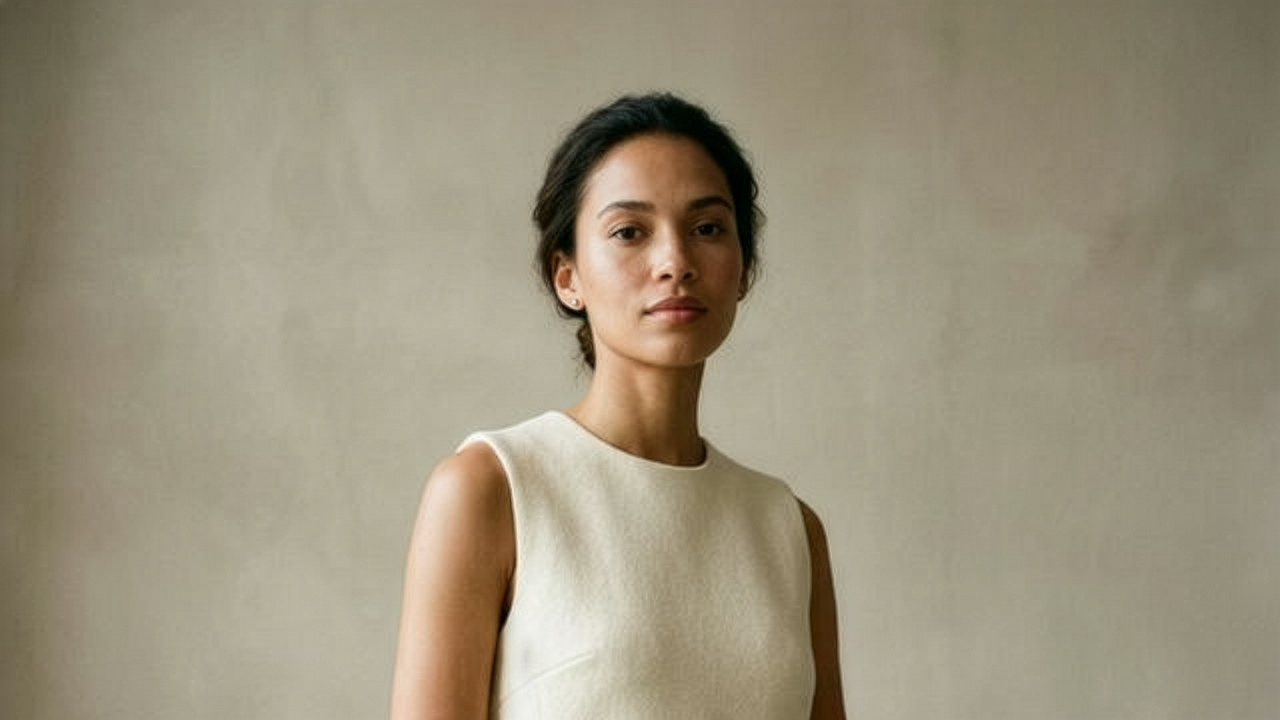
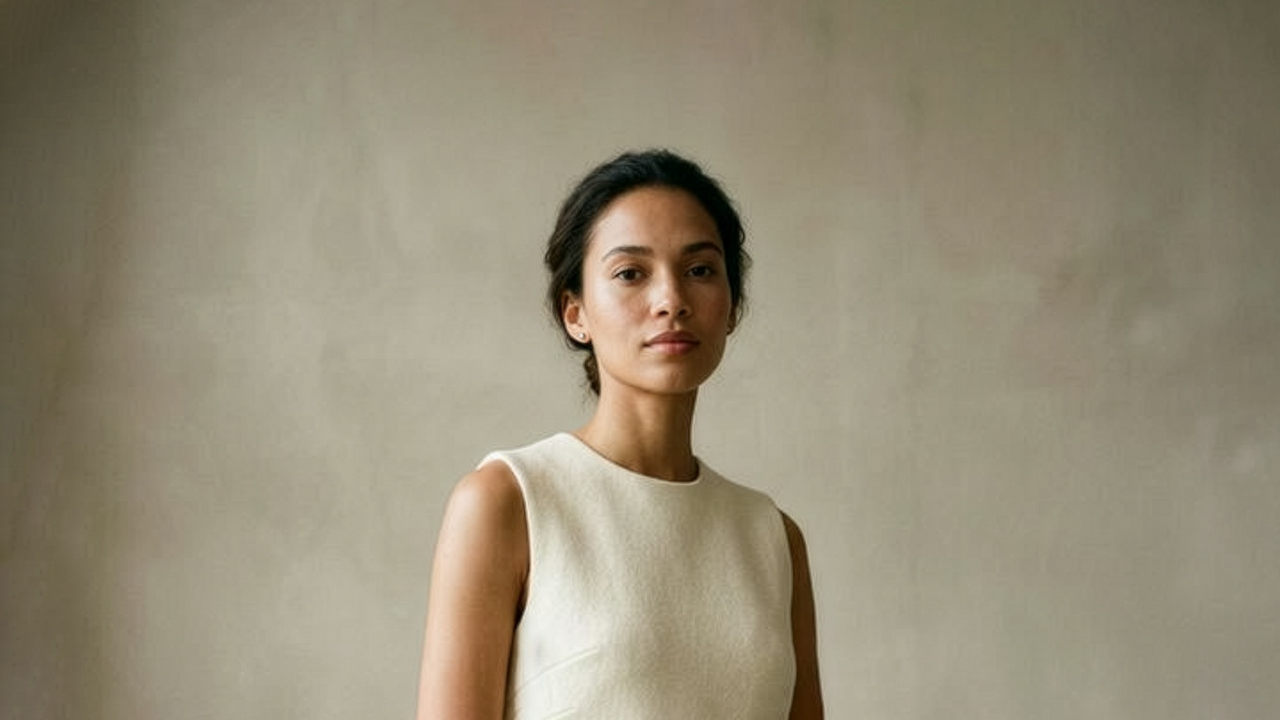
feat: removed top padding from hero images

Changed region(s): [[0.2812, 0.1222, 0.6875, 1.0], [0.0, 0.0, 0.1875, 1.0]]

diff --git a/index.html b/index.html
@@ -380,7 +380,7 @@
     <main>
         <!-- Hero Section -->
         <section
-            class="relative flex items-center justify-center overflow-hidden h-[calc(100vh-40px)] md:h-[calc(100vh-48px)] mt-[40px] md:mt-[48px]">
+            class="relative flex items-center justify-center overflow-hidden h-screen">
             <div class="absolute inset-0 z-0">
                 <picture class="block w-full h-full">
                     <source media="(min-width: 1024px)" srcset="images/hero-desktop.png">
